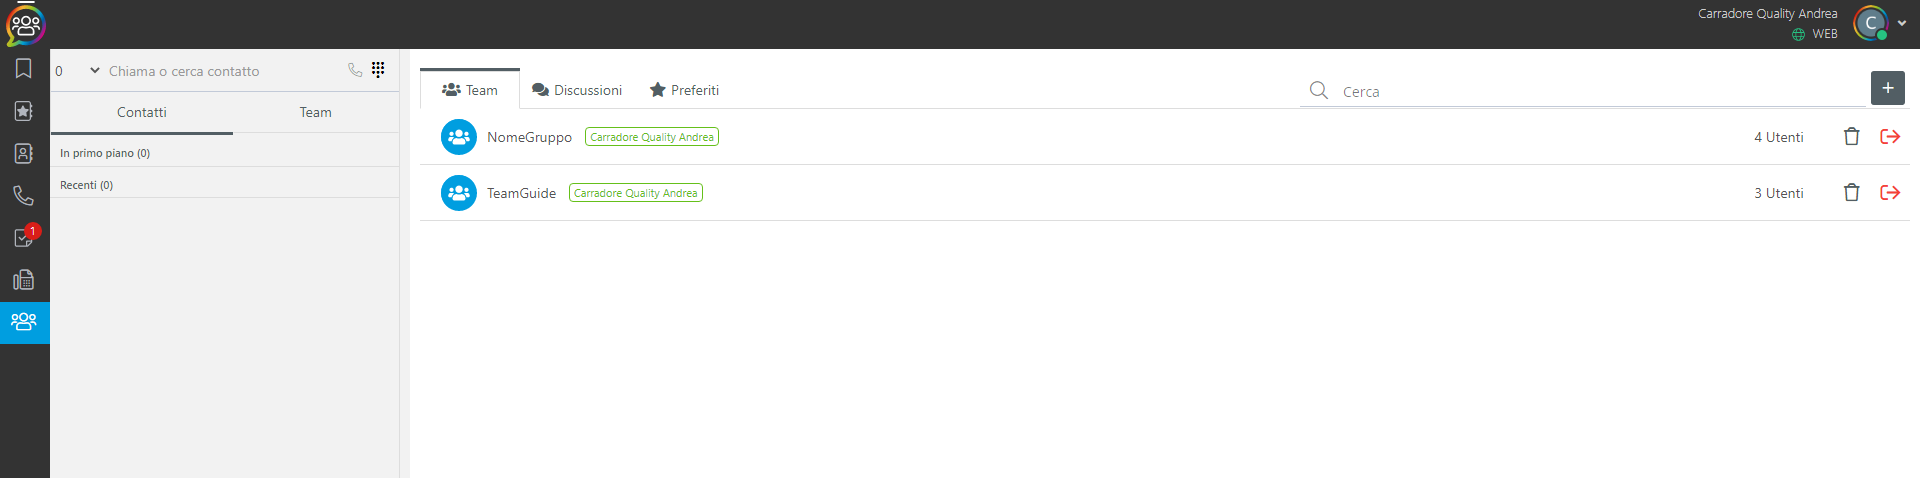
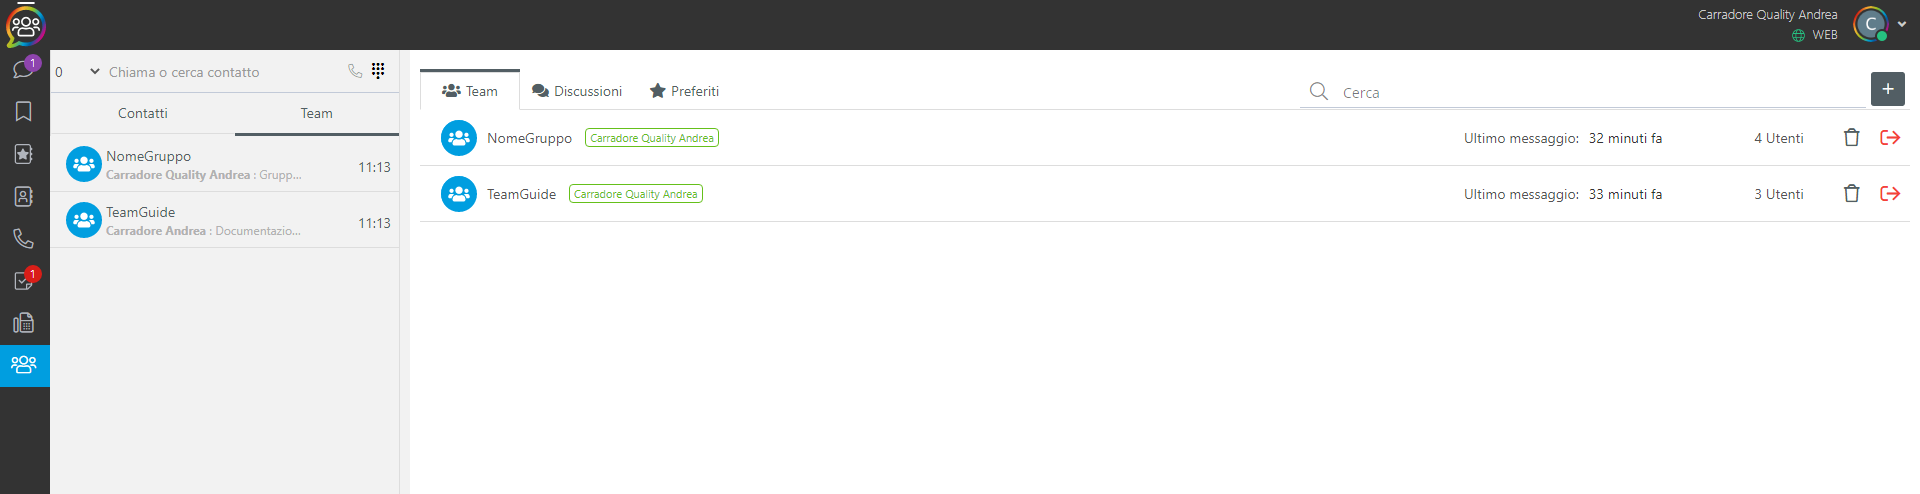
update team

diff --git a/source/projects/CLIENT/GuidaIntroduttivaClient/Panoramica/MenuClient/Team.rst b/source/projects/CLIENT/GuidaIntroduttivaClient/Panoramica/MenuClient/Team.rst
@@ -9,13 +9,6 @@ Attraverso la sezione **Team** è possibile creare un gruppo chat di condivision
 
 .. tip:: I termini  *team*  e  *gruppo chat*  sono sinonimi
 
-|br| 
-
-.. .. image:: /images/CLIENT/MenuClient/team_elenco.PNG
-
-
-|br| 
-
 Tutti gli utenti possono partecipare ai team di collaborazione, ma solo chi ha uno specifico permesso può creare o cancellare i team.
 
 Per creare un nuovo gruppo, dopo aver cliccato sul tasto “+” in alto a destra, si attiverà il form evidenziato nella figura seguente:
@@ -27,7 +20,7 @@ Il form prevede l'inserimento di:
 
 *  **Nome del gruppo** : va inserito senza spazi
 *  **Argomento**  (opzionale): specifica qual è l'argomento per cui il gruppo è creato
-*  **Utenti aggiunti** : gli utenti che formno il gruppo, che vanno aggiunti utilizzando il campo "Nome o cognome" (tale campo esegue una ricerca tra gli utenti interni TVox)
+*  **Utenti** : gli utenti che formano il gruppo vanno aggiunti utilizzando il campo "Nome o cognome" (tale campo esegue una ricerca tra gli utenti interni TVox)
 
 Al click sul pulsante  **Crea**  viene creato il team che comparirà nell'elenco dei team di tutti gli utenti che fanno parte del gruppo stesso.gurato
 
@@ -35,6 +28,31 @@ Al click sul pulsante  **Crea**  viene creato il team che comparirà nell'elenco
 
 L'elenco dei team pone in evidenza il nome del gruppo, l'amministratore dello stesso e, sull'estrema destra, la data/ora dell'ultimo messaggio presente nel gruppo, il numero di utenti presenti nel gruppo ed eventualmente la possibilità di lasciare il gruppo (se l'utente è abilitato a tale possibilità).
 
+|br|
 
 
+Discussioni
+===========
 
+Le discussioni sono particolari gruppi che possono essere generati a partire da specifici messaggi contenuti in un team e che consentono di approfondire un determinato tema coinvolgendo solamente gli utenti del gruppo che ne sono interessati.
+
+.. tip:: Una discussione è a tutti gli effetti un sottogruppo del gruppo dal quale è stata generata
+
+Se l'utente viene inserito in una discussione, o crea lui stesso una discussione, troverà l'elenco delle discussioni di cui fa parte all'interno dell'area Team nella tab Discussioni
+
+.. image:: /images/CLIENT/MenuClient/team_discuss_creazione.PNG
+
+Per creare la discussione va compilato il form proposto scegliendo:
+
+* il nome della discussione
+* gli utenti che devono essere coinvolti (si troverà già l'utente autore del messaggio a partire dal quale si sta creando la discussione)
+* un eventuale messaggio iniziale
+
+
+.. image:: /images/CLIENT/MenuClient/team_discuss_form.PNG
+
+
+La tab Discussioni della sezione Team presenterà, in modo analogo alla tab Team, l'elenco delle discussioni in cui l'utente è inserito:
+
+
+.. image:: /images/CLIENT/MenuClient/team_discuss_elenco.PNG
